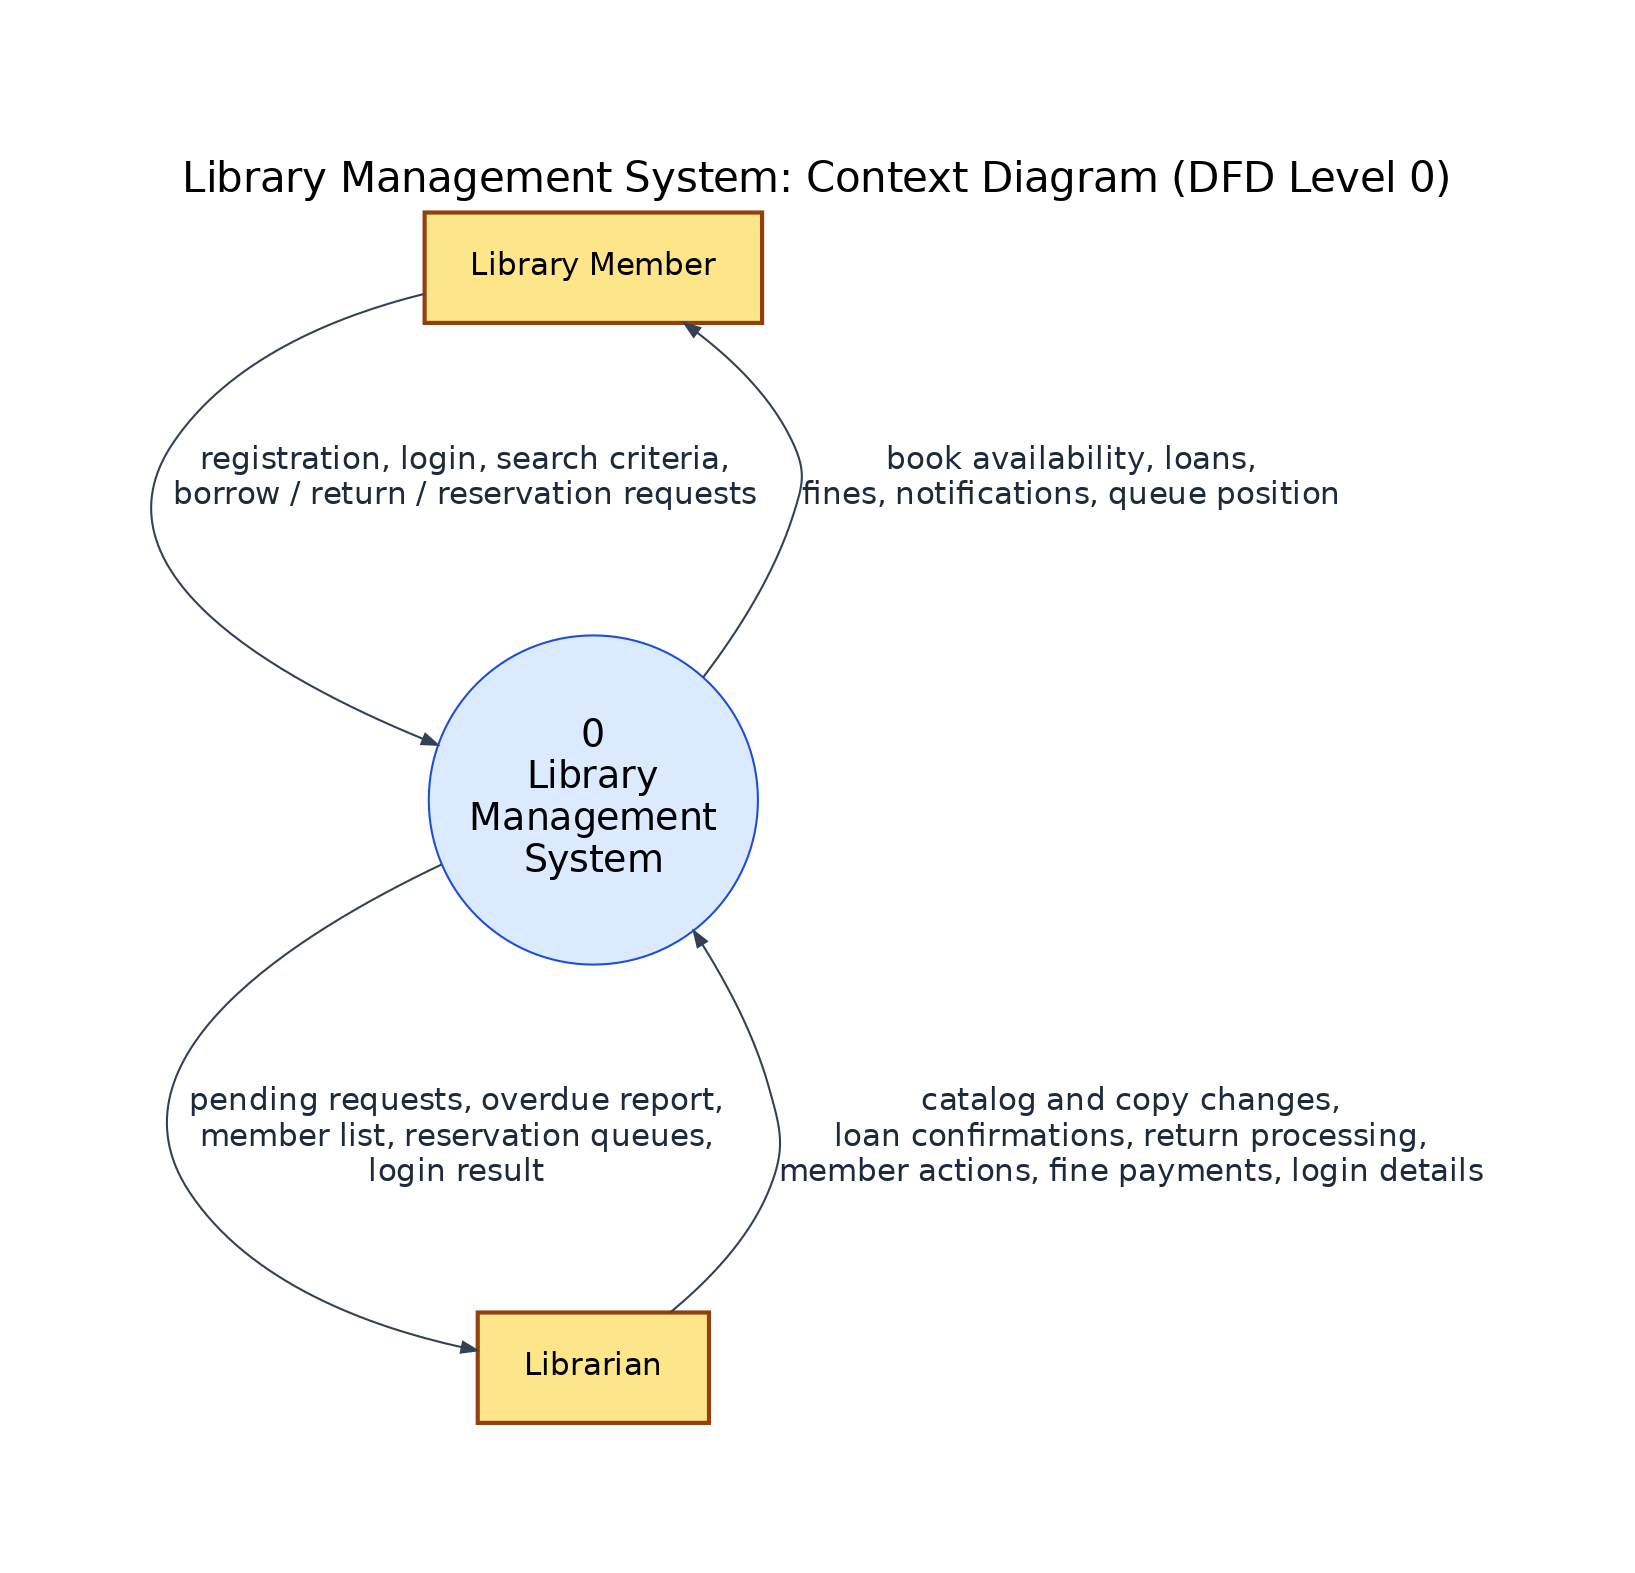
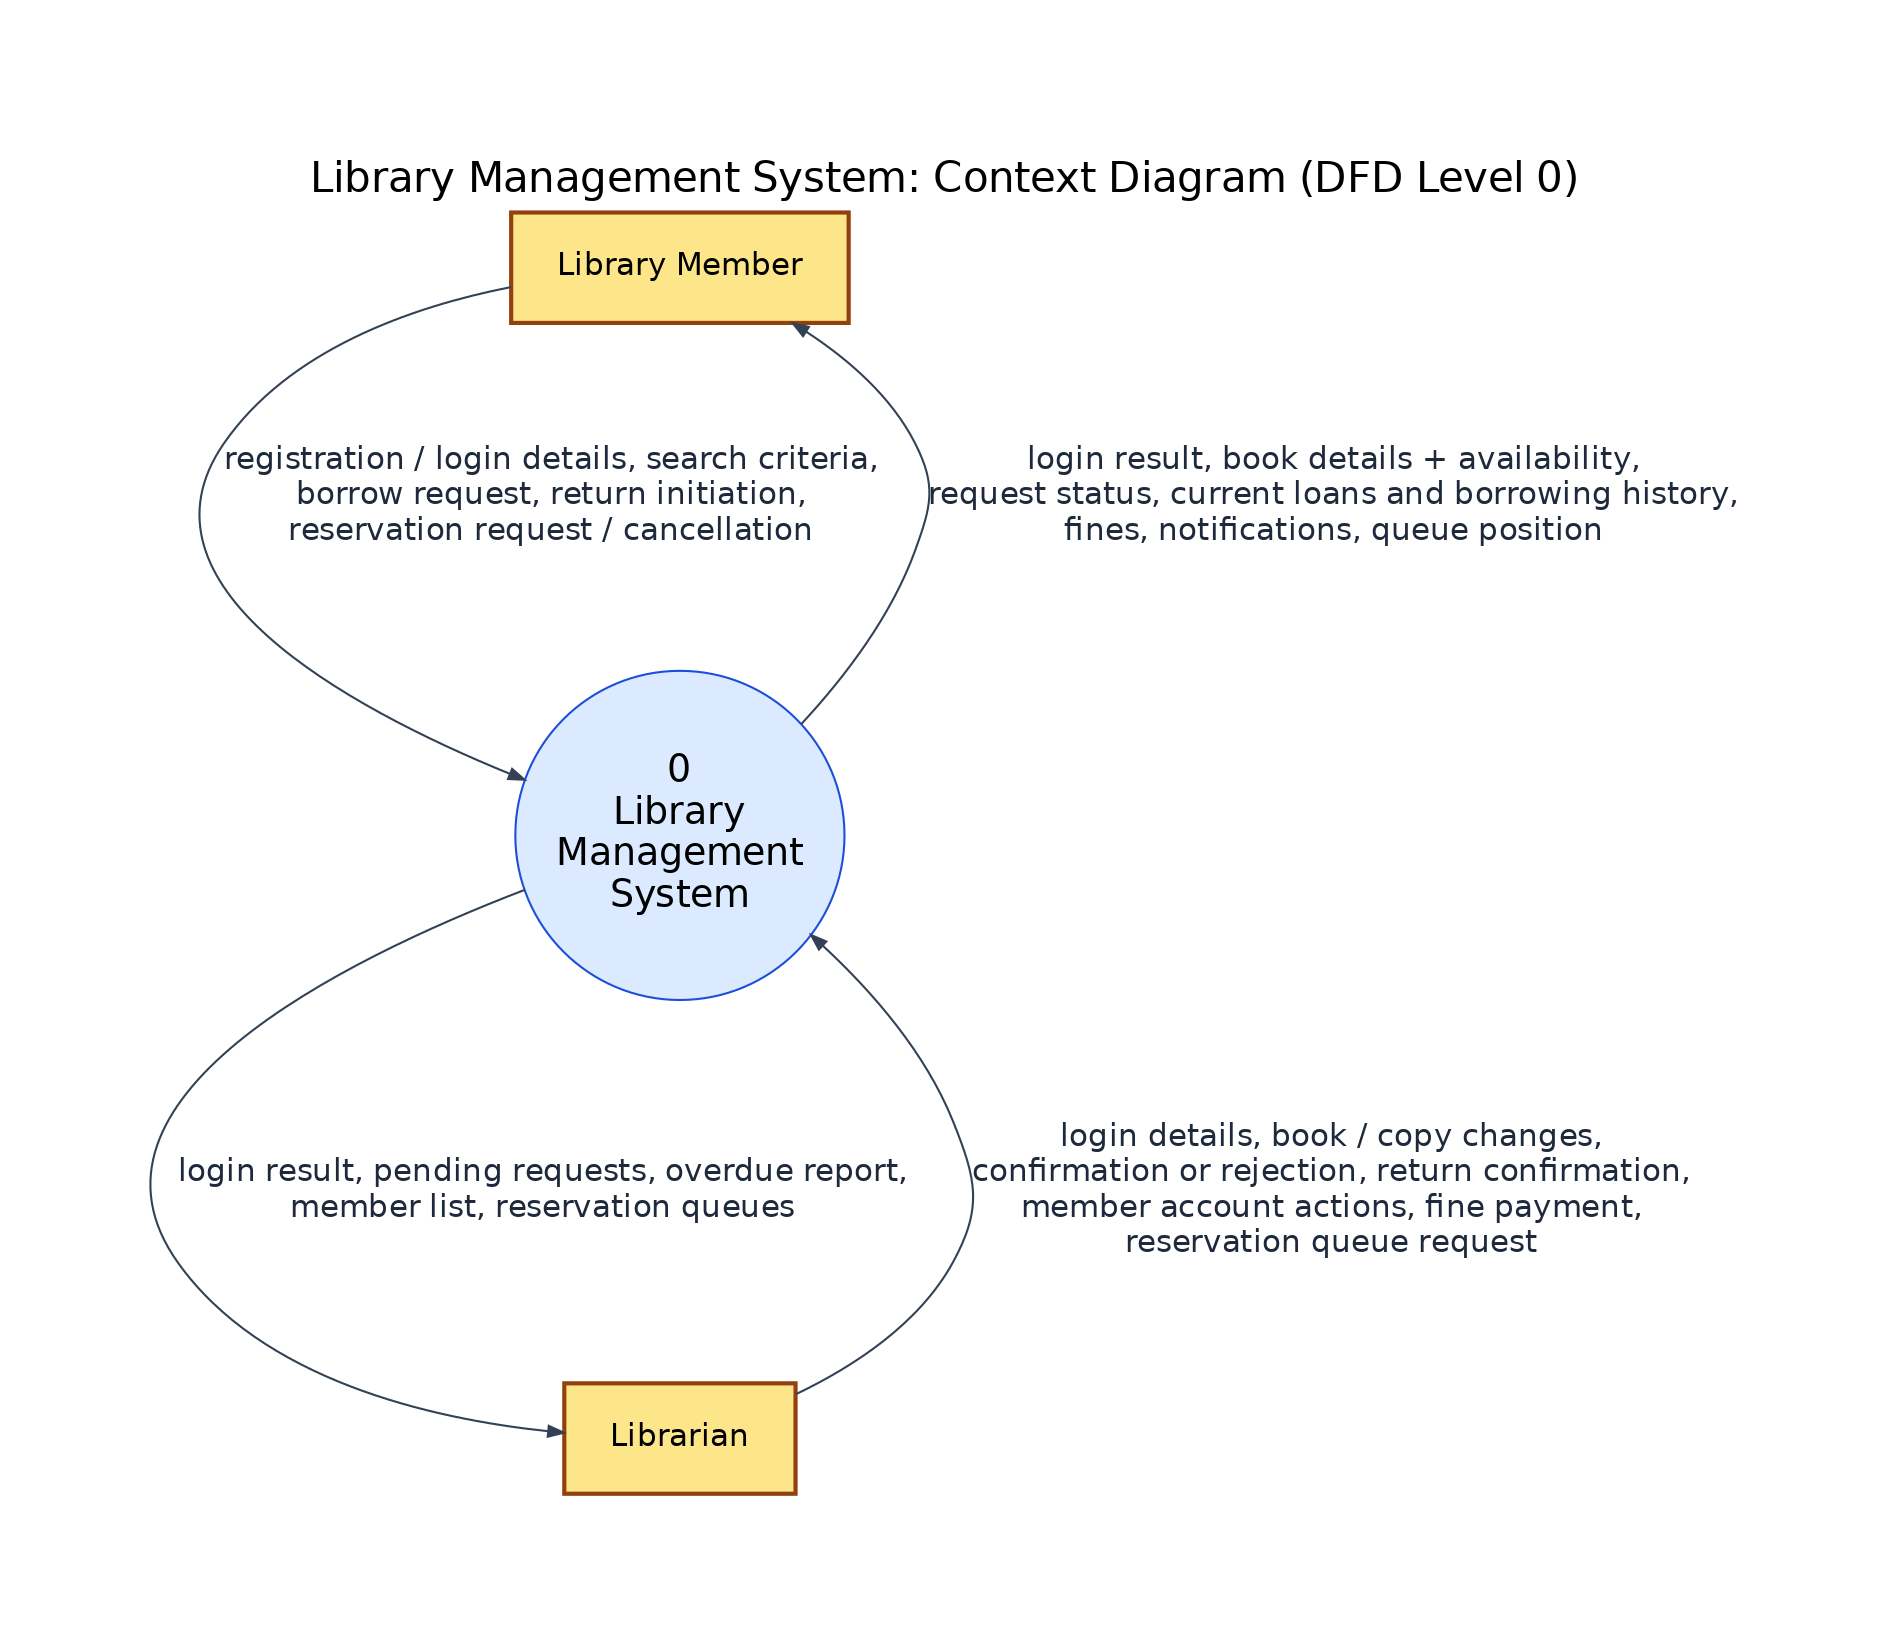
Diagrams: balance DFD0/DFD1, drop scheduler actor, add reject/approve ops, limit counts pending, re-check at confirm, activity lanes, README notes

diff --git a/diagrams/README.md b/diagrams/README.md
@@ -7,7 +7,7 @@ Each source has a rendered PNG next to it.
 
 | Diagram | Covers | Source |
 | --- | --- | --- |
-| DFD Level 0 (context) | System boundary, 2 external entities | [dfd0.dot](dfd0.dot) |
+| DFD Level 0 (context) | System boundary, 2 external entities (Library Member, Librarian), flows balanced with Level 1 | [dfd0.dot](dfd0.dot) |
 | DFD Level 1 | 8 processes, 7 data stores, all 19 requirements | [dfd1.dot](dfd1.dot) |
 | Class diagram | Every function FR-01 to FR-19 as an operation, tagged with its FR id | [class-diagram.puml](class-diagram.puml) |
 | Use case diagram | 21 use cases covering all 19 requirements, include and extend relations | [use-case-diagram.puml](use-case-diagram.puml) |
@@ -40,6 +40,13 @@ Where the front end differs on purpose from the diagrams:
 - The sequence diagram creates a Loan in PENDING state at request time. The front end keeps a pending request as its own record and creates the Loan (ACTIVE) when the librarian confirms. REJECTED requests are removed instead of stored.
 - A cancelled reservation is deleted in the front end, so ReservationStatus values WAITING, NOTIFIED, FULFILLED and CANCELLED are not all stored. The held copy (RESERVED) is tied to the book queue, not to one reservation.
 - Fine keeps both a loan link and a member link in the class diagram. The code stores both ids on the fine.
+
+- There is no separate Scheduler actor. The due-date notices (FR-11) and the overdue check (FR-16) are triggered by the system itself; the librarian sees the overdue report (UC16). Fines are created when the late book is returned.
+- Promotion (FR-17) keeps the member record and sets the user role to LIBRARIAN (User.role in the class diagram, a promoted flag in the code).
+- Passwords are stored as plain text in the browser (static demo with no backend), so the class diagram attribute is `password`.
+- Rejecting a request is Librarian.rejectBorrowRequest and Loan.reject. Confirming first re-checks the member and the copy.
+- Fine payment is a separate step after the return, not a condition for the copy to become available.
+- Team note: requirements list owners Person 1 to Person 7. The instructor PDF asks for 2 requirements per member (16 for 8 members). Not changed here.
 
 ## Regenerate
 

diff --git a/requirements/functional-requirements.md b/requirements/functional-requirements.md
@@ -7,7 +7,7 @@ The Library Management System helps librarians organize books, manage library me
 and track borrowing and returning activities. Members can search for books and check
 their availability before requesting to borrow them.
 
-**Actors:** Library Member, Librarian
+**Actors:** Library Member, Librarian (due-date notices and the overdue check are triggered by the system itself, there is no third actor)
 
 | ID | Actor | Requirement | Owner |
 | --- | --- | --- | --- |
